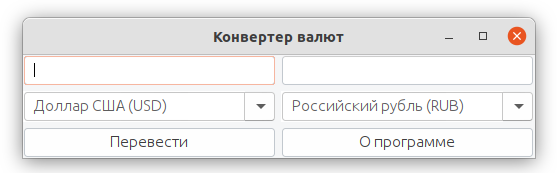
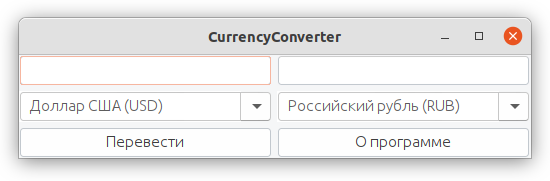
Added KRW currency and etc

Changed region(s): [[0.0309, 0.0867, 0.9891, 0.9827], [0.3709, 0.1734, 0.6182, 0.2601]]

diff --git a/src/com/anec/MainWindow.java b/src/com/anec/MainWindow.java
@@ -11,13 +11,10 @@ import java.util.Arrays;
 
 public class MainWindow extends JFrame {
 
-    private final static String VERSION = "0.1.2";
+    private final static String VERSION = "0.1.3";
 
     private final JTextField textFieldValue = new JTextField("");
     private final JTextField textFieldResult = new JTextField("");
-
-    private final JRadioButton radioButtonDollarsToRubles = new JRadioButton("Доллары в рубли");
-    private final JRadioButton radioButtonRublesToDollars = new JRadioButton("Рубли в доллары");
 
     private final JButton buttonConvert = new JButton("Перевести");
     private final JButton buttonAbout = new JButton("О программе");
@@ -27,7 +24,7 @@ public class MainWindow extends JFrame {
     }
 
     private void initialize() {
-        setTitle("Конвертер валют");
+        setTitle("CurrencyConverter");
         setDefaultCloseOperation(JFrame.EXIT_ON_CLOSE);
         setSize(512, 140);
         setMinimumSize(new Dimension(256, 128));
@@ -57,16 +54,10 @@ public class MainWindow extends JFrame {
         textFieldResult.setEditable(false);
         container.add(textFieldResult);
 
-        ButtonGroup group = new ButtonGroup();
-        group.add(radioButtonDollarsToRubles);
-        group.add(radioButtonRublesToDollars);
-
-        radioButtonDollarsToRubles.setSelected(true);
-
         String[] currencies = new String[]{
                 "Доллар США (USD)", "Евро (EUR)", "Казахский тенге (KZT)", "Китайский юань (CNY)",
                 "Румынский лей (RON)", "Российский рубль (RUB)", "Украинская гривна (UAH)",
-                "Японская иена (JPY)",
+                "Южнокорейская вона (KRW)", "Японская иена (JPY)",
         };
 
         JComboBox<String> comboBoxFirstCurrency = new JComboBox<>(currencies);
@@ -111,6 +102,8 @@ public class MainWindow extends JFrame {
                 } else if (firstSelectedCurrency.equals(currencies[6])) {
                     result = Uah.toRubles(Double.parseDouble(value));
                 } else if (firstSelectedCurrency.equals(currencies[7])) {
+                    result = Krw.toRubles(Double.parseDouble(value));
+                } else if (firstSelectedCurrency.equals(currencies[8])) {
                     result = Jpy.toRubles(Double.parseDouble(value));
                 }
 
@@ -127,6 +120,8 @@ public class MainWindow extends JFrame {
                 } else if (secondSelectedCurrency.equals(currencies[6])) {
                     result = Uah.fromRubles(result);
                 } else if (secondSelectedCurrency.equals(currencies[7])) {
+                    result = Krw.fromRubles(result);
+                } else if (secondSelectedCurrency.equals(currencies[8])) {
                     result = Jpy.fromRubles(result);
                 }
 
@@ -144,6 +139,8 @@ public class MainWindow extends JFrame {
                     } else if (firstSelectedCurrency.equals(currencies[6])) {
                         result = Uah.toRubles(Double.parseDouble(value));
                     } else if (firstSelectedCurrency.equals(currencies[7])) {
+                        result = Krw.toRubles(Double.parseDouble(value));
+                    } else if (firstSelectedCurrency.equals(currencies[8])) {
                         result = Jpy.toRubles(Double.parseDouble(value));
                     } else if (firstSelectedCurrency.equals(currencies[5])) {
                         result = Double.parseDouble(value);
@@ -164,6 +161,8 @@ public class MainWindow extends JFrame {
                     } else if (secondSelectedCurrency.equals(currencies[6])) {
                         result = Uah.fromRubles(Double.parseDouble(value));
                     } else if (secondSelectedCurrency.equals(currencies[7])) {
+                        result = Krw.fromRubles(Double.parseDouble(value));
+                    } else if (secondSelectedCurrency.equals(currencies[8])) {
                         result = Jpy.fromRubles(Double.parseDouble(value));
                     } else if (secondSelectedCurrency.equals(currencies[5])) {
                         result = Double.parseDouble(value);

diff --git a/src/com/anec/currency_converters/Krw.java b/src/com/anec/currency_converters/Krw.java
@@ -1,0 +1,51 @@
+package com.anec.currency_converters;
+
+import java.io.BufferedReader;
+import java.io.InputStreamReader;
+import java.net.ConnectException;
+import java.net.URL;
+import java.net.URLConnection;
+
+public class Krw {
+
+    private static double getCurrencyRate() throws ConnectException {
+        StringBuilder content = new StringBuilder();
+
+        try {
+            URL url = new URL("http://www.cbr.ru/scripts/XML_daily.asp");
+            URLConnection urlConnection = url.openConnection();
+
+            BufferedReader bufferedReader = new BufferedReader(new InputStreamReader(urlConnection.getInputStream()));
+
+            String line;
+
+            while ((line = bufferedReader.readLine()) != null) {
+                content.append(line).append("\n");
+            }
+            bufferedReader.close();
+        } catch (Exception e) {
+            throw new ConnectException("Failed to get KRW rate");
+        }
+
+        int index = content.indexOf("<CharCode>KRW</CharCode>");
+
+        int indexOfStartKrwRate = index + 87;
+        int indexOfEndKrwRate = index + 93;
+
+        StringBuilder krwRate = new StringBuilder();
+
+        for (int i = indexOfStartKrwRate; i <= indexOfEndKrwRate; i++) {
+            krwRate.append(content.charAt(i));
+        }
+
+        return Double.parseDouble(String.valueOf(krwRate).replace(',', '.'));
+    }
+
+    public static double toRubles(double value) throws ConnectException {
+        return value * getCurrencyRate();
+    }
+
+    public static double fromRubles(double value) throws ConnectException {
+        return value / getCurrencyRate();
+    }
+}

diff --git a/README.md b/README.md
@@ -1,3 +1,3 @@
 ## CurrencyConverter
-### Версия(Version): 0.1.2
+### Версия(Version): 0.1.3
 ![CurrencyConverter](program.png)
